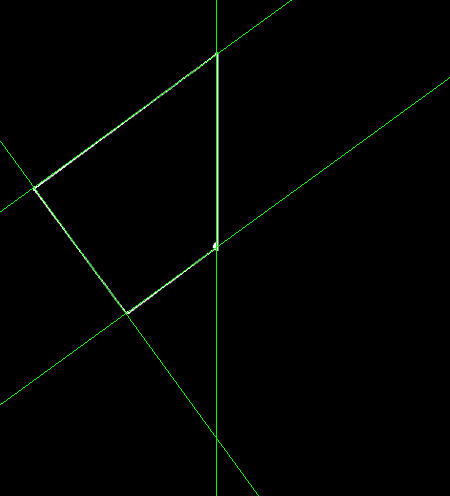
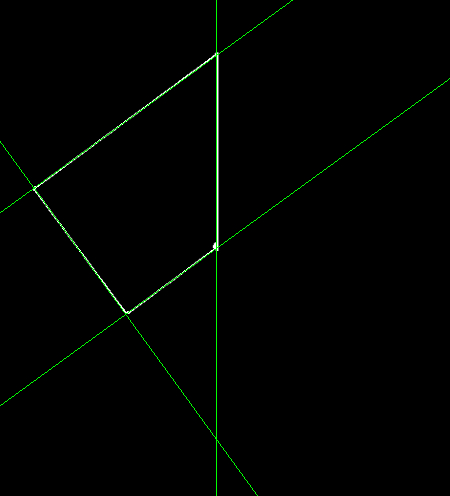
Enhance HoughLines documentation and improve parameter handling in implementation

diff --git a/include/common/draw.hpp b/include/common/draw.hpp
@@ -131,26 +131,24 @@ namespace qlm
     template<ImageFormat frmt, pixel_t T>
     Image<frmt, T> DrawLine(const Image<frmt, T>& in, const LinePolar& line, const  Pixel<frmt, T>& color)
     {
-        int width = in.Width();
-        int height = in.Height();
+        const float width  = static_cast<float>(in.Width());
+        const float height = static_cast<float>(in.Height());
 
-        auto theta = line.angle;
-        auto r = line.radius;
+        const float length = std::sqrt(width * width + height * height) + 1.0;
 
-        auto cos_angle = std::cos(theta); 
-        auto sin_angle = std::sin(theta);
+        const float cos_angle = std::cos(line.angle);
+        const float sin_angle = std::sin(line.angle);
 
-        int x0 = cos_angle * r; 
-        int y0 = sin_angle * r;
+        const float x0 = cos_angle * line.radius;
+        const float y0 = sin_angle * line.radius;
 
-        int x1 = int(x0 + 1000 * (-sin_angle));
-        int y1 = int(y0 + 1000 * (cos_angle));
+        // direction along the line is (-sin, cos)
+        const int x1 = static_cast<int>(std::round(x0 - length * sin_angle));
+        const int y1 = static_cast<int>(std::round(y0 + length * cos_angle));
+        const int x2 = static_cast<int>(std::round(x0 + length * sin_angle));
+        const int y2 = static_cast<int>(std::round(y0 - length * cos_angle));
 
-        int x2 = int(x0 - 1000 * (-sin_angle));
-        int y2 = int(y0 - 1000 * (cos_angle));
-
-        Line l{x1 ,y1 ,x2 ,y2};
-        return DrawLine(in, l, color);
+        return DrawLine(in, Line{x1, y1, x2, y2}, color);
     }
 
     template<ImageFormat frmt, pixel_t T>

diff --git a/tests/source/features detection/Test_HoughLines.cpp b/tests/source/features detection/Test_HoughLines.cpp
@@ -1,4 +1,5 @@
 #include "test_common.hpp"
+#include <numbers>
 
 TEST(Test_shakhbat_cv, HoughLines)
 {
@@ -17,7 +18,7 @@ TEST(Test_shakhbat_cv, HoughLines)
 
 	// do the operation
 	t.Start();
-	std::vector<qlm::LinePolar> lines = qlm::HoughLines(in, 1, 3 * 3.14f / 180, 110);
+	std::vector<qlm::LinePolar> lines = qlm::HoughLines(in, 1, 3 * std::numbers::pi_v<float> / 180.0f, 110);
 	t.End();
 
 	// out image to draw on
@@ -40,3 +41,23 @@ TEST(Test_shakhbat_cv, HoughLines)
 
 	test::CompareImages(draw, ref);
 }
+TEST(Test_shakhbat_cv, HoughLines_Synthetic)
+{
+	// 100x100 canvas with a single horizontal white line at y=40
+	qlm::Image<qlm::ImageFormat::GRAY, uint8_t> in(100, 100);
+	for (int x = 0; x < 100; x++)
+		 in.SetPixel(x, 40, qlm::Pixel<qlm::ImageFormat::GRAY, uint8_t>(255));
+		// a horizontal line y=40 has normal theta=pi/2, rho=40
+		// (x*cos(pi/2)+40*sin(pi/2) = 40 for every x)
+		const float theta_step = 3 * std::numbers::pi_v<float> / 180.0f;
+		const auto lines = qlm::HoughLines(in, 1.0f, theta_step, 50);
+		ASSERT_FALSE(lines.empty());
+		bool found = false;
+		for (const auto &l : lines)
+		{
+			if (std::abs(l.radius - 40.0f) <= 1.0f && std::abs(l.angle - std::numbers::pi / 2) <= theta_step)
+				 found = true;
+		}
+		EXPECT_TRUE(found);
+	}
+

diff --git a/source/HoughLines.cpp b/source/HoughLines.cpp
@@ -68,8 +68,8 @@ std::vector<qlm::LinePolar> qlm::HoughLines(const qlm::Image<qlm::ImageFormat::G
 					const float r = x * cos_table[t] + y * sin_table[t];
 					const int idx_r = std::round(r) + half;
 					
-					auto val = acc.GetPixel(t, idx_r);
-					acc.SetPixel(t, idx_r, val.v + 1);
+					auto val = acc.GetPixel(t, idx_r).v;
+					acc.SetPixel(t, idx_r, val + 1);
 				}
 			}
 		}
@@ -112,7 +112,7 @@ std::vector<qlm::LinePolar> qlm::HoughLines(const qlm::Image<qlm::ImageFormat::G
 	for (const auto& p : peaks)
 	{
 		const float d     = (p.r - half) * rho;
-		const float theta = static_cast<float>(min_theta + p.t * theta_step);
+		const float theta = min_theta + p.t * theta_step;
 
 		lines.push_back({ d, theta });
 	}

diff --git a/doc/Functions/Features Detection/HoughLines/README.md b/doc/Functions/Features Detection/HoughLines/README.md
@@ -24,12 +24,14 @@ namespace qlm
 
 | Name        | Type         | Description                                                                                  |
 |-------------|--------------|----------------------------------------------------------------------------------------------|
-| `in`        | `Image`      | The input image.                                                                             |
-| `rho`       | `float`      | The Distance resolution of the accumulator in pixels.                                        |
-| `theta`     | `float`      | The angle resolution of the accumulator in radians.                                          |
-| `threshold` | `int`        | The threshold parameter. Only those lines are returned that get enough votes ( >threshold ). |
-| `min_theta` | `double`     | The minimum angle to check for lines. Must fall between 0 and max_theta.                     |
-| `max_theta` | `double`     | The upper bound for the angle. Must fall between min_theta and PI.                         |
+| `in`        | `Image`      | The input binary image (nonzero pixels vote).                                                    |
+| `rho`       | `float`      | The distance resolution of the accumulator in pixels.                                          |
+| `theta_step`| `float`      | The angle resolution of the accumulator in radians.                                            |
+| `threshold` | `int`        | The threshold parameter. Only those lines are returned that get enough votes ( >threshold ).   |
+| `min_theta` | `double`     | The minimum angle to check for lines. Must fall between 0 and max_theta.                       |
+| `max_theta` | `double`     | The upper bound for the angle. Must fall between min_theta and PI.                             |
+
+Votes with negative rho are shifted into the accumulator, so lines in any orientation are detected.
 
 ## Return Value
 The function returns a vector of lines of type `std::vector<LinePolar>`.
